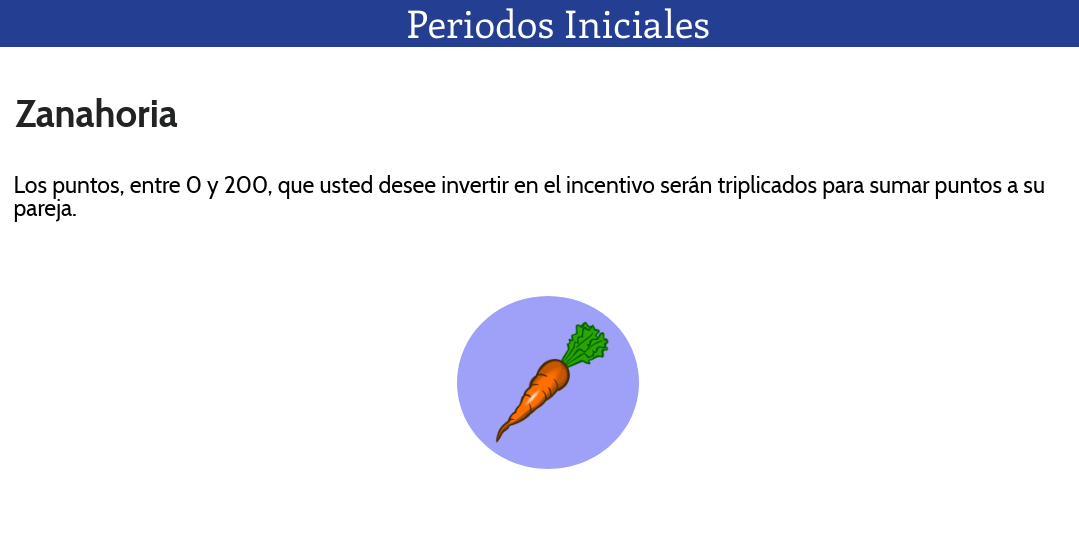
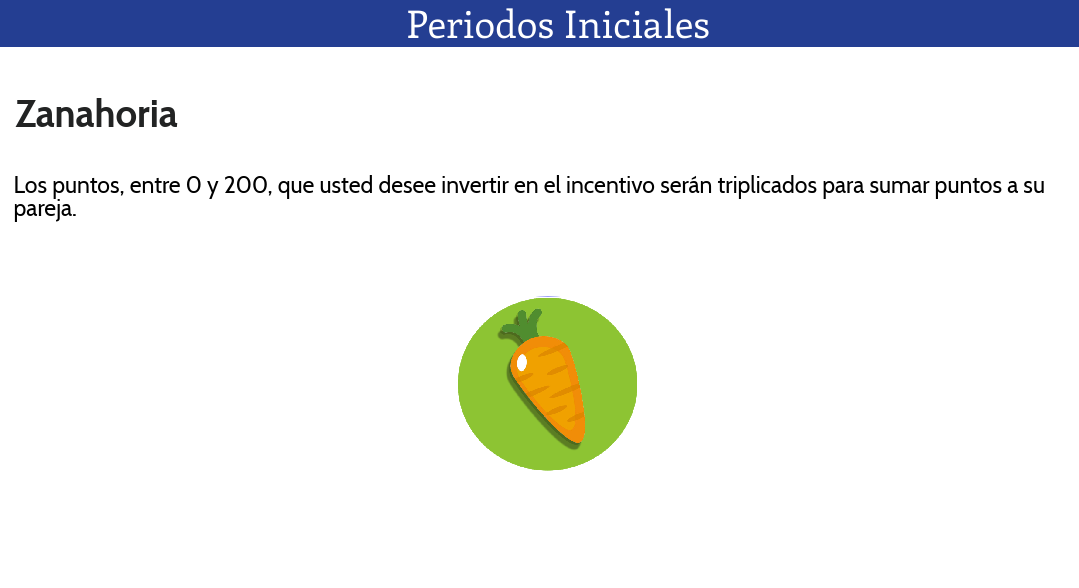
G&Z v2.9.3
Actualización de iconos

diff --git a/garrote_zanahoria/templates/garrote_zanahoria/Ganancias.html b/garrote_zanahoria/templates/garrote_zanahoria/Ganancias.html
@@ -69,15 +69,15 @@
 
     {% if tratamiento %}
         {% if numeroronda >= rondastotales %}
-            <img  class="imagen" src = "{% static 'garrote_zanahoria/garrote_fondo.PNG' %}"/>
+            <img  class="imagen" src = "{% static 'mercados_prohibidos/garrote_azul.png' %}"/>
         {% else %}
-            <img  class="imagen" src = "{% static 'mercados_prohibidos/zanahoria_fondo.PNG' %}"/>
+            <img  class="imagen" src = "{% static 'mercados_prohibidos/zanahoria_verde.png' %}"/>
         {% endif %}
     {% else %}
         {% if numeroronda >= rondastotales %}
-           <img  class="imagen" src = "{% static 'garrote_zanahoria/zanahoria_fondo.PNG' %}"/>
+           <img  class="imagen" src = "{% static 'mercados_prohibidos/zanahoria_azul.png' %}"/>
         {% else %}
-            <img class="imagen" src = "{% static 'garrote_zanahoria/garrote_fondo.PNG' %}"/>
+            <img class="imagen" src = "{% static 'mercados_prohibidos/garrote_verde.png' %}"/>
         {% endif %}
     {% endif %}
 

diff --git a/garrote_zanahoria/templates/garrote_zanahoria/Incentivos.html b/garrote_zanahoria/templates/garrote_zanahoria/Incentivos.html
@@ -68,15 +68,15 @@
 
     {% if tratamiento %}
         {% if numeroronda >= rondastotales %}
-            <img  class="imagen" src = "{% static 'garrote_zanahoria/garrote_fondo.PNG' %}"/>
+            <img  class="imagen" src = "{% static 'mercados_prohibidos/garrote_azul.png' %}"/>
         {% else %}
-            <img  class="imagen" src = "{% static 'mercados_prohibidos/zanahoria_fondo.PNG' %}"/>
+            <img  class="imagen" src = "{% static 'mercados_prohibidos/zanahoria_verde.png' %}"/>
         {% endif %}
     {% else %}
         {% if numeroronda >= rondastotales %}
-           <img  class="imagen" src = "{% static 'garrote_zanahoria/zanahoria_fondo.PNG' %}"/>
+           <img  class="imagen" src = "{% static 'mercados_prohibidos/zanahoria_azul.png' %}"/>
         {% else %}
-            <img class="imagen" src = "{% static 'garrote_zanahoria/garrote_fondo.PNG' %}"/>
+            <img class="imagen" src = "{% static 'mercados_prohibidos/garrote_verde.png' %}"/>
         {% endif %}
     {% endif %}
 

diff --git a/garrote_zanahoria/templates/garrote_zanahoria/contribucion.html b/garrote_zanahoria/templates/garrote_zanahoria/contribucion.html
@@ -64,15 +64,15 @@
 
     {% if tratamiento %}
         {% if numeroronda >= rondastotales %}
-            <img  class="imagen" src = "{% static 'garrote_zanahoria/garrote_fondo.PNG' %}"/>
+            <img  class="imagen" src = "{% static 'mercados_prohibidos/garrote_azul.png' %}"/>
         {% else %}
-            <img  class="imagen" src = "{% static 'mercados_prohibidos/zanahoria_fondo.PNG' %}"/>
+            <img  class="imagen" src = "{% static 'mercados_prohibidos/zanahoria_verde.png' %}"/>
         {% endif %}
     {% else %}
         {% if numeroronda >= rondastotales %}
-           <img  class="imagen" src = "{% static 'garrote_zanahoria/zanahoria_fondo.PNG' %}"/>
+           <img  class="imagen" src = "{% static 'mercados_prohibidos/zanahoria_azul.png' %}"/>
         {% else %}
-            <img class="imagen" src = "{% static 'garrote_zanahoria/garrote_fondo.PNG' %}"/>
+            <img class="imagen" src = "{% static 'mercados_prohibidos/garrote_verde.png' %}"/>
         {% endif %}
     {% endif %}
 
